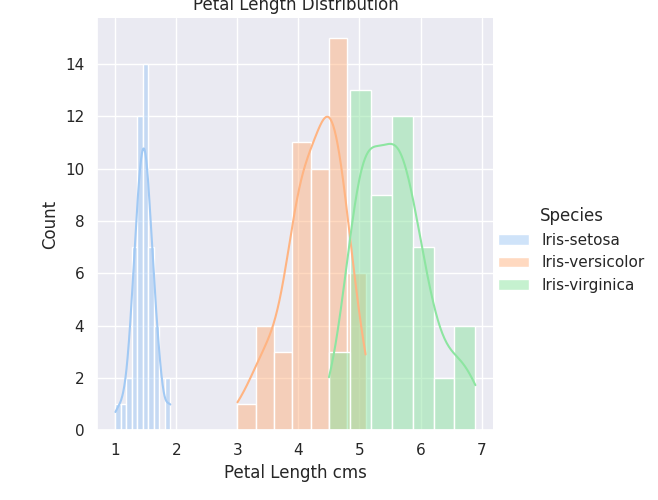
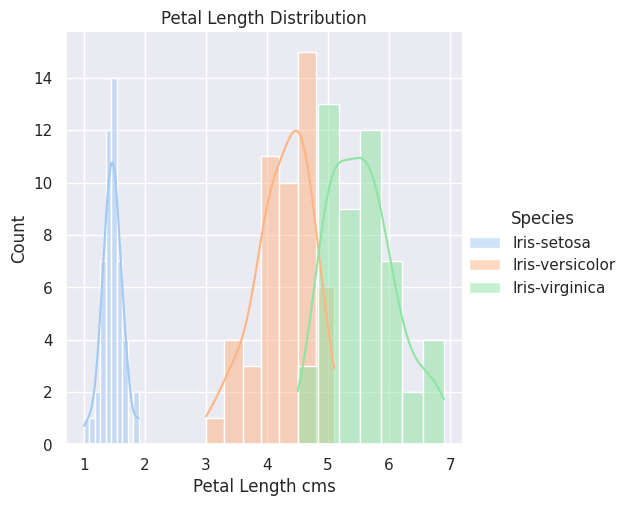
Add savefig arg to stop title being cut off histograms

diff --git a/analysis.py b/analysis.py
@@ -65,9 +65,9 @@ missing_values_table_csv = pd.read_csv('missing_values_2.csv', sep=',')
 # declare a variable for the ff.create table method
 fig = ff.create_table(missing_values_table_csv)
 #  method to change the look and feel of the table
-fig.update_layout(autosize=True, width=500, height=200)
+fig.update_layout(autosize=False, width=300, height=200)
 # write the table_plotly.png file to the images folder
-fig.write_image("images/tables/missing_values.png", scale=2)
+fig.write_image("images/tables/missing_values.png", scale=1)
 
 # # # # # Output to txt file # # # # #
 
@@ -136,19 +136,19 @@ plot = sns.FacetGrid(iris, hue="Species", height=5)
 plot.map(sns.histplot, "Sepal Length cms", kde=True).add_legend().set(title='Sepal Length Distribution')
 # save output to images folder - https://www.marsja.se/how-to-save-a-seaborn-plot-as-a-file-e-g-png-pdf-eps-tiff/
 # - accessed 30/03/2023
-plt.savefig('images/plots/histograms/sepal_length_histogram.png')
+plt.savefig('images/plots/histograms/sepal_length_histogram.png', bbox_inches='tight')
 
 plot = sns.FacetGrid(iris, hue="Species", height=5)
 plot.map(sns.histplot, "Sepal Width cms", kde=True).add_legend().set(title='Sepal Width Distribution')
-plt.savefig('images/plots/histograms/sepal_width_histogram.png')
+plt.savefig('images/plots/histograms/sepal_width_histogram.png', bbox_inches='tight')
 
 plot = sns.FacetGrid(iris, hue="Species", height=5)
 plot.map(sns.histplot, "Petal Length cms", kde=True).add_legend().set(title='Petal Length Distribution')
-plt.savefig('images/plots/histograms/petal_length_histogram.png')
+plt.savefig('images/plots/histograms/petal_length_histogram.png', bbox_inches='tight')
 
 plot = sns.FacetGrid(iris, hue="Species", height=5)
 plot.map(sns.histplot, "Petal Width cms", kde=True).add_legend().set(title='Petal Width Distribution')
-plt.savefig('images/plots/histograms/petal_width_histogram.png')
+plt.savefig('images/plots/histograms/petal_width_histogram.png', bbox_inches='tight')
 
 plt.show()
 
